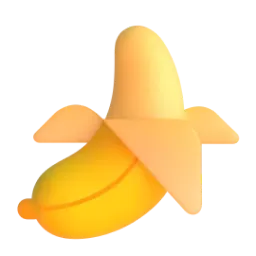
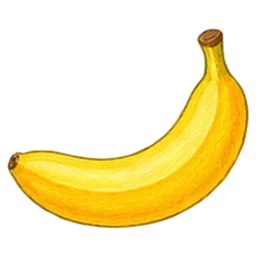
Images : planche Fluent 1 (25 mots de Lerne neue Wörter redessinés au crayon)
Claude-Session: https://claude.ai/code/session_01UkP11uCuPaN6MyB6YyqYQX

diff --git a/sw.js b/sw.js
@@ -1,6 +1,6 @@
 // Service worker : fonctionnement hors ligne.
 // Pensez à changer VERSION à chaque mise à jour des fichiers pour que les téléphones la récupèrent.
-var VERSION = "v219";
+var VERSION = "v220";
 var CACHE = "jeux-ecole-" + VERSION;
 var FILES = [
   "./",

diff --git a/CLAUDE.md b/CLAUDE.md
@@ -130,7 +130,7 @@ Cibles >= 56px, bordures 3px, textes secondaires >= 16px, menus centrés vertica
 - **Mots activés (remplace les leçons cochées, à la demande de l'utilisateur)** : Paramètres → 📖 Mots d'allemand → interrupteur ✅ par mot, boutons Tout/Aucun par leçon et Tout activer/désactiver, **par profil** (pastilles des profils). Clé `de_off@<profil>` = mots désactivés (`deOff`, `deOffSave`, `deOn`, `deOnSet` dans `allemand-mots.js`) ; au premier usage, désactivés = mots hors des leçons cochées pour Finde das Wort ; un mot ajouté plus tard est activé d'office. Tous les jeux (pool de `deutsch.html`, `memory.html`, `courses.html`) tirent les mots activés ; difficulté allemand ×1,25 si plus de 60 mots activés. Le menu « 🎮 Réglages des jeux » est retiré des Paramètres (doublon, à la demande de l'utilisateur) : seule l'entrée « 📖 Mots d'allemand » reste (page `jeux` conservée mais inaccessible). **Le manuel reste en mémoire** (rangement par leçon, `deSelected`/`deSave`, page `lecons` masquée mais conservée).
 - (Ancien, conservé mais plus utilisé) Paramètres → 🎮 Réglages des jeux → Der · Die · Das / Finde das Wort : leçons cochées **par jeu et par profil** (clés `de_sel_dde@<profil>`, `de_sel_fdw@<profil>`, défaut `DE_DEFAULT` = leçons 1-10). Les jeux ne tirent que les mots des leçons cochées (message s'il y en a moins de 3).
 - **Dictionnaire hors manuel** (à la demande de l'utilisateur) : mots ajoutés en dehors du manuel, en **leçon 100** (`DE_DICT`, module `dico` « 📖 Dictionnaire · Mots en plus », période 0 affichée « 📖 Hors manuel » dans les réglages des leçons). **Coché d'office** dans tous les jeux (`deSelected` l'ajoute sauf si la liste enregistrée contient `-100` = décoché volontairement ; `deSave` ajoute `-100` quand il n'est pas coché). Mots : **die Klementine** (dessin `DE_SVG` : deux clémentines ; aussi dans `DE_BUY` pour la liste des courses). Pour ajouter un mot : une ligne `"100|article|Mot|emoji"` (ou image vide + dessin dans `DE_SVG`).
-- **Images Gemini (en cours)** : l'utilisateur génère les images des mots dans l'appli Gemini de son téléphone, un peu chaque jour, avec les consignes de `outils/gemini-images.md` (produit par `outils/gen_prompts.py` : style commun + sujet par mot, 230 mots, mots sans image d'abord, 20 par jour). Il renvoie les images dans la session avec leurs numéros (conseil donné : coller d'abord un message de style unique dans une nouvelle conversation, puis un sujet par message ; Gemini peut proposer plusieurs variantes, on garde la meilleure). Intégration : `python3 outils/images.py <image> <Mot> …` rogne le blanc, met en carré, réduit à 256 px, enregistre `jeux/img/de/<slug>.webp` (ä→ae, ö→oe, ü→ue, ß→ss), met à jour `DE_IMG` dans `allemand-mots.js` (l'image est prioritaire sur l'emoji et le dessin : `deImg` = `<img class="deimg">` 1,3em, chemin relatif à l'accueil) et la liste entre `// images-de` dans `sw.js`. Puis changer `VERSION`. Faites : 1 à 125 (tous les mots ont une image). **Planches 2 à 6 (126-230, tous les mots du manuel en style crayon) et Lerne A (L1-L25) faites avec ChatGPT, images détourées sur fond transparent : découpe `python3 outils/decoupe.py planche.png dossier` (composantes connexes : parasites retirés, traits fins gardés, dessins entiers même s'ils débordent ; `colonnes lignes` en option, ex. `5 1`), puis `images.py` (garde la transparence). **Prompts prêts : `outils/chatgpt-planches.md`** (planche 3, planche 5 avec chiffres, et Lerne A/B/C = les 74 mots de « Lerne neue Wörter » sans image, numérotés L1-L74, grilles 5 × 5 ; à intégrer avec `decoupe.py` puis `images.py <img> <Mot>`, ce qui les fait entrer dans l'exercice). Lerne B et C faites (planche de 49 sur fond blanc : fond retiré par remplissage depuis les bords, puis découpe en lignes repérées à la main ; « sagen » illustré ensuite par la planche Océan : deux enfants qui se parlent, bulle avec un cœur ; **tous les mots ont désormais une image**) ; **les nombres (zwei, sechs, sieben, neun, zwölf) = gros chiffres dessinés, pas des objets à compter** (à la demande de l'utilisateur : zwei, neun, sieben, sechs refaits avec la planche 5, en grille 6 × 5, dernière case vide) (prompt : vraie transparence, pas de damier, pas de cadre, sujets séparés ; sujets blancs avec contour, pas de décor).** Rappel quotidien à 11 h 53 (Paris) demandé par l'utilisateur : tâche planifiée « Rappel : images Gemini manquantes » (`trig_01YDTJjxTUJCC9bXXBs6b6VL`), à supprimer quand tout est fait, brauchen refait avec parapluie ; **Fond blanc 1 à 5 (W1-W124) toutes faites** ; **ensuite (à la demande de l'utilisateur) : remplacer les 171 images Fluent (Microsoft) des mots de « Lerne neue Wörter » par des dessins au crayon** — planches « Fluent 1 à 7 » (F1-F171, la 7 avec les nombres en gros chiffres) dans `outils/chatgpt-planches.md` (Regen, säen, sauber, brauchen, gießen, hell, jung, lila recoupés à la main : la découpe automatique prenait gouttes, graines, étincelles, rayons pour des parasites) (planche ChatGPT transparente, `decoupe.py … 5 5` puis `images.py`) ; planches d'harmonisation : planche 1 faite (kneten, Jäger refaits, 103-125) (planches découpées ; les cases à bordure grise sont détectées par profils de pixels non blancs, puis rognées de 9 px). Gemini peut générer une planche de 20 images en une fois : découper en grille (cases de largeur/5), puis outils/images.py. Noter chaque mot Gemini fait dans `outils/gemini-faits.txt`.
+- **Images Gemini (en cours)** : l'utilisateur génère les images des mots dans l'appli Gemini de son téléphone, un peu chaque jour, avec les consignes de `outils/gemini-images.md` (produit par `outils/gen_prompts.py` : style commun + sujet par mot, 230 mots, mots sans image d'abord, 20 par jour). Il renvoie les images dans la session avec leurs numéros (conseil donné : coller d'abord un message de style unique dans une nouvelle conversation, puis un sujet par message ; Gemini peut proposer plusieurs variantes, on garde la meilleure). Intégration : `python3 outils/images.py <image> <Mot> …` rogne le blanc, met en carré, réduit à 256 px, enregistre `jeux/img/de/<slug>.webp` (ä→ae, ö→oe, ü→ue, ß→ss), met à jour `DE_IMG` dans `allemand-mots.js` (l'image est prioritaire sur l'emoji et le dessin : `deImg` = `<img class="deimg">` 1,3em, chemin relatif à l'accueil) et la liste entre `// images-de` dans `sw.js`. Puis changer `VERSION`. Faites : 1 à 125 (tous les mots ont une image). **Planches 2 à 6 (126-230, tous les mots du manuel en style crayon) et Lerne A (L1-L25) faites avec ChatGPT, images détourées sur fond transparent : découpe `python3 outils/decoupe.py planche.png dossier` (composantes connexes : parasites retirés, traits fins gardés, dessins entiers même s'ils débordent ; `colonnes lignes` en option, ex. `5 1`), puis `images.py` (garde la transparence). **Prompts prêts : `outils/chatgpt-planches.md`** (planche 3, planche 5 avec chiffres, et Lerne A/B/C = les 74 mots de « Lerne neue Wörter » sans image, numérotés L1-L74, grilles 5 × 5 ; à intégrer avec `decoupe.py` puis `images.py <img> <Mot>`, ce qui les fait entrer dans l'exercice). Lerne B et C faites (planche de 49 sur fond blanc : fond retiré par remplissage depuis les bords, puis découpe en lignes repérées à la main ; « sagen » illustré ensuite par la planche Océan : deux enfants qui se parlent, bulle avec un cœur ; **tous les mots ont désormais une image**) ; **les nombres (zwei, sechs, sieben, neun, zwölf) = gros chiffres dessinés, pas des objets à compter** (à la demande de l'utilisateur : zwei, neun, sieben, sechs refaits avec la planche 5, en grille 6 × 5, dernière case vide) (prompt : vraie transparence, pas de damier, pas de cadre, sujets séparés ; sujets blancs avec contour, pas de décor).** Rappel quotidien à 11 h 53 (Paris) demandé par l'utilisateur : tâche planifiée « Rappel : images Gemini manquantes » (`trig_01YDTJjxTUJCC9bXXBs6b6VL`), à supprimer quand tout est fait, brauchen refait avec parapluie ; **Fond blanc 1 à 5 (W1-W124) toutes faites** ; **ensuite (à la demande de l'utilisateur) : remplacer les 171 images Fluent (Microsoft) des mots de « Lerne neue Wörter » par des dessins au crayon** — planches « Fluent 1 à 7 » (F1-F171, la 7 avec les nombres en gros chiffres) dans `outils/chatgpt-planches.md` ; **Fluent 1 faite** (Regen, säen, sauber, brauchen, gießen, hell, jung, lila recoupés à la main : la découpe automatique prenait gouttes, graines, étincelles, rayons pour des parasites) (planche ChatGPT transparente, `decoupe.py … 5 5` puis `images.py`) ; planches d'harmonisation : planche 1 faite (kneten, Jäger refaits, 103-125) (planches découpées ; les cases à bordure grise sont détectées par profils de pixels non blancs, puis rognées de 9 px). Gemini peut générer une planche de 20 images en une fois : découper en grille (cases de largeur/5), puis outils/images.py. Noter chaque mot Gemini fait dans `outils/gemini-faits.txt`.
 - **Fluent Emoji 3D** (à la demande de l'utilisateur : « Fluent pour tout ce qui représente très bien les mots, Gemini pour les autres ») : `outils/fluent.py` (liste `F` mot → emoji ; plusieurs emoji = images côte à côte, ex. Vögel, Bäume, Mäuse, zwölf) télécharge `@lobehub/fluent-emoji-3d` (npm, MIT) et écrit `jeux/img/de/<slug>.webp`, sans jamais écraser un mot de `gemini-faits.txt`. 128 mots en Fluent ; retirés car pas assez clairs : Fuß, Nebel, waschen, Freund, Freundin (→ Gemini). Ensuite (demande de l'utilisateur : « passer toute émoticône en images générées », style crayon unique) : les mots Fluent sont numérotés 103-230 dans `gemini-images.md`, et `outils/gemini-planches.md` donne des planches de 25 prêtes à coller (planche 1 = refaire aussi kneten et der Jäger). Une image Gemini remplace l'image Fluent (ajouter le mot à `gemini-faits.txt`).
 - **📖 Mots d'allemand** (Paramètres, à la demande de l'utilisateur : « gérer la liste de mots allemand et leur image, rajouter des mots ; tu me demanderas les images ») : pages `dewords` (liste par leçon avec image, recherche, « + Ajouter un mot », carte « 🖼 Mots sans image » avec consigne Gemini à copier, `dwPrompt`) et `deword` (fiche : 📷 choisir une image sur le téléphone → éditeur `phOpen(f, cb)` en carré, fond blanc, 256 px WebP ; image d'origine ; pour un mot ajouté : article, mot (majuscule auto pour un nom), leçon (défaut 100 = Dictionnaire), « image à dessiner » en français, liste des courses ; masquer un mot du manuel ; supprimer un mot ajouté). Données sur le téléphone : `localStorage.de_words = {add:[{id,n,a,w,fr,buy}], img:{Mot:dataURL}, hide:[Mot]}` ; `deBuild()` (fin de `allemand-mots.js`) calcule `DE_ALL` (tout), `DE_WORDS` (sans les masqués), `DE_BUY` (= `DE_BUY0` + mots ajoutés « courses ») ; image du téléphone > image du dépôt > emoji > dessin. Quand l'utilisateur envoie les images de ses mots ajoutés, les intégrer au dépôt (ligne `DE_RAW` + `outils/images.py`) : un mot du dépôt l'emporte sur le même mot ajouté.
 - **warm** = thermomètre rouge presque plein avec des vagues de chaleur (dessin SVG maison rendu en `jeux/img/de/warm.webp`, à la demande de l'utilisateur : le soleil faisait doublon avec sonnig).
